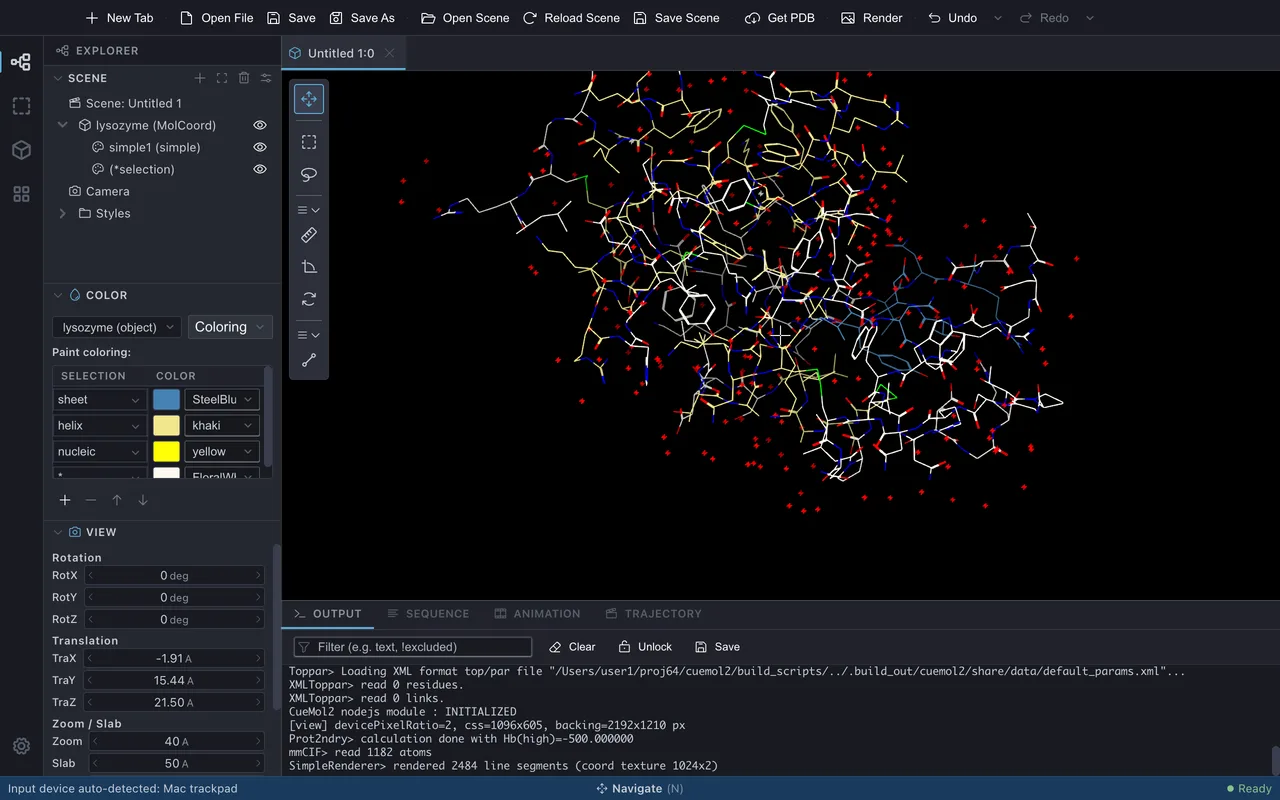
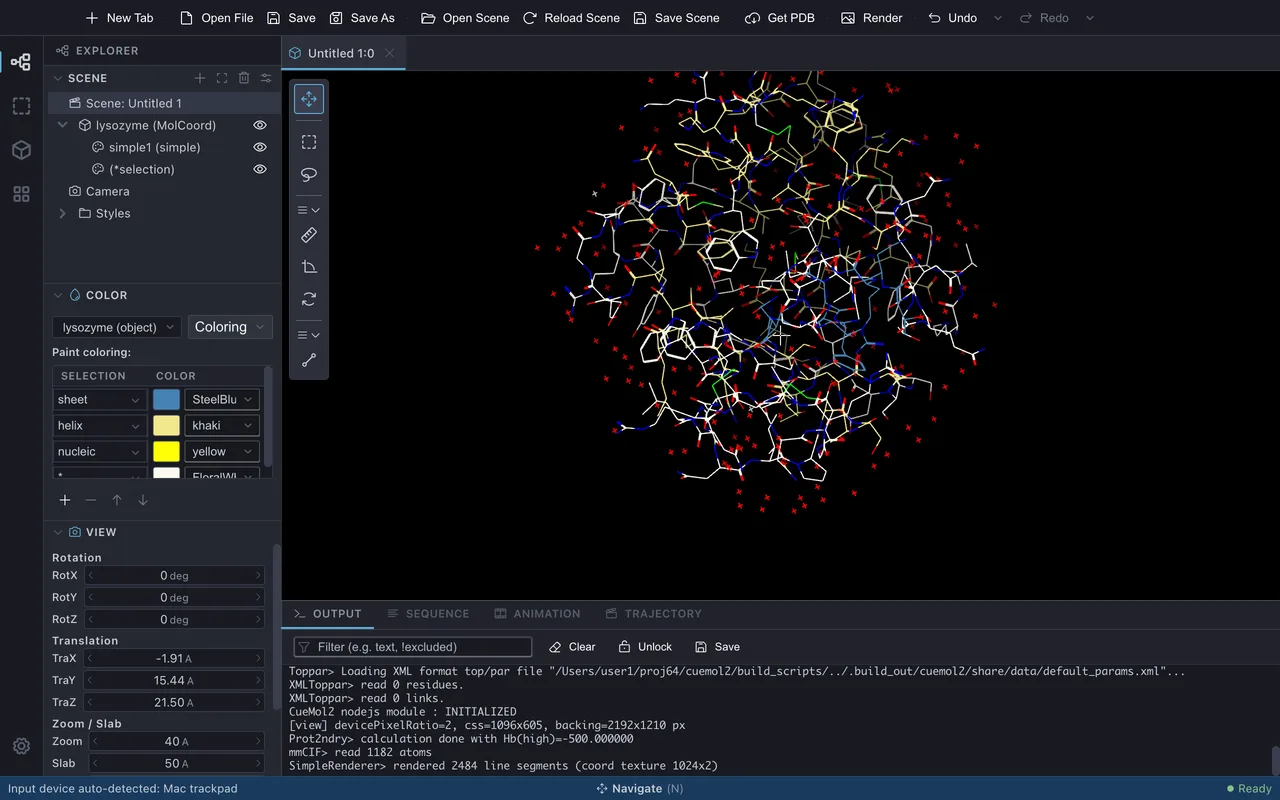
Explain the GUI parts the tutorial walks past
Measured against the CueMol2 GUI tutorial, which explains a dialog field
at a time, this page named only the controls it told the reader to touch.
Fill in the parts that are on screen but were never described:

- Open File Options: the file name and detected format row, Renderer name
  (where simple1 comes from, which later sections rely on), the Presets
  group at the head of the Renderer type list, and the format-specific
  options fold with its (defaults)/(modified) hint. Also the download
  progress dialog with Cancel, and the Get PDB failed error.
- View pane: how a row is operated (arrows, drag, click to type) and that
  Rotation is a relative dial that returns to 0 while Translation and
  Zoom/Slab hold absolute values.
- Clicking an atom also reports occupancy, B factor and coordinates in the
  status bar and the Output panel; the first line of the view's
  right-click menu is the atom's identity and does nothing.
- Scene tree: the "name (type)" convention read against the actual rows,
  the disclosure triangle, why unnamed renderers show only (*selection),
  the Camera and Styles nodes, all four panel buttons, and the background
  colour on the scene row.

Section 4 reuses the CueMol2 concept diagram unchanged, since the model it
draws has not changed.

The spec asserts the new claims: the file/format row, the default renderer
name, the Presets optgroup, the fold's label and hint, that entering 90 in
[…]

Changed region(s): [[0.3438, 0.0938, 0.8125, 0.6562]]

diff --git a/docs-verify/specs/basic/loading.spec.ts b/docs-verify/specs/basic/loading.spec.ts
@@ -17,7 +17,7 @@ import { CueMolHarness } from '../../fixtures/app';
 import { setupLoadingPage, LYSOZYME, SECOND_OBJ } from '../../fixtures/course';
 import { assertDialogQueuesEmpty } from '../../helpers/dialogs';
 import { expectRow, sceneRow } from '../../helpers/sceneTree';
-import { setViewValue, viewPaneRowParts } from '../../helpers/viewPane';
+import { enterViewValue, setViewValue, viewPaneRowParts } from '../../helpers/viewPane';
 import { rotateView, zoomView } from '../../helpers/molView';
 import { docShot } from '../../helpers/docShot';
 
@@ -52,7 +52,19 @@ test.describe.serial('構造の読み込みと表示', { tag: '@net' }, () => {
         const mark = harness.logs.mark();
         await setupLoadingPage.loadLysozyme(harness, {
             onGetPdbDialog: (dlg) => docShot(harness.window, `${SHOT}/1-getpdb`, { clip: dlg }),
-            onOptionsDialog: (dlg) => docShot(harness.window, `${SHOT}/1-open-options`, { clip: dlg }),
+            onOptionsDialog: async (dlg) => {
+                // 「ファイル名 (1qio.cif) と、判別したファイル形式 (mmCIF) が表示されます」
+                await expect(dlg.locator('.fod-file-name')).toHaveText('1qio.cif');
+                await expect(dlg.locator('.fod-file-format')).toHaveText('mmCIF');
+                // 「Renderer name は選んだ種類から自動で決まります (simple1)」
+                await expect(dlg.locator('#rend-name')).toHaveValue('simple1');
+                // 「Renderer type のリストの先頭には Presets というグループがあります」
+                await expect(dlg.locator('#rend-type optgroup[label="Presets"]')).toHaveCount(1);
+                // 「<形式>-specific options ... 既定のままなら (defaults) と表示されます」
+                await expect(dlg.locator('.fod-collapsible-label')).toHaveText('mmCIF-specific options');
+                await expect(dlg.locator('.fod-collapsible-hint')).toHaveText('(defaults)');
+                await docShot(harness.window, `${SHOT}/1-open-options`, { clip: dlg });
+            },
         });
 
         // 「分子が線画 (stick モデル) で表示されます。」
@@ -73,7 +85,11 @@ test.describe.serial('構造の読み込みと表示', { tag: '@net' }, () => {
         await zoomView(harness.window);
         await expect(harness.window.locator('canvas').first()).toBeVisible();
 
+        // 「Rotation は相対値で、操作するとその角度だけ回り、値は 0 に戻ります」
+        expect(await enterViewValue(harness.window, 'RotY', 90)).toMatch(/^0\s*deg/);
+
         // 「3. Explorer > View パネルで Zoom の値をクリックし、40 と入力して Enter」
+        // (Zoom は絶対値なので入力した値がそのまま残る)
         await setViewValue(harness.window, 'Zoom', 40);
         await docShot(harness.window, `${SHOT}/2-view-zoom`, {
             clip: viewPaneRowParts(harness.window, 'Zoom'),
@@ -110,9 +126,13 @@ test.describe.serial('構造の読み込みと表示', { tag: '@net' }, () => {
         for (const name of [LYSOZYME, 'simple1', SECOND_OBJ, 'trace1']) {
             await expect(sceneRow(harness.window, name)).toBeVisible();
         }
-        // 「分子を読み込むと、選択部分をハイライト表示するための *selection という
-        //   Renderer も自動で作られます」
+        // 「名前のない Renderer は括弧と型だけが表示されます」
         await expect(harness.window.getByText('(*selection)').first()).toBeVisible();
+        // 「いちばん下の Camera と Styles は…」
+        await expect(harness.window.getByText('Camera', { exact: true })).toBeVisible();
+        await expect(harness.window.getByText('Styles', { exact: true })).toBeVisible();
+        // 「パネル上部には 4 つのボタンがあります」(Add / Focus / Delete / Property)
+        await expect(harness.window.locator('.section-action-btn')).toHaveCount(4);
 
         // Header (it carries the Delete button the section mentions) down to
         // the last renderer row; Camera / Styles are not part of this section.

diff --git a/docs-verify/helpers/viewPane.ts b/docs-verify/helpers/viewPane.ts
@@ -17,14 +17,24 @@ function viewRow(window: Page, label: string): Locator {
         .filter({ has: window.locator('.h3-form-grid-label', { hasText: new RegExp(`^${label}$`) }) });
 }
 
-/** Set an absolute View-pane value (Zoom / Slab / Dist / TraX...) and verify it. */
-export async function setViewValue(window: Page, label: string, value: number): Promise<void> {
+/**
+ * Type a value into a View-pane row and commit it. Returns what the row
+ * displays afterwards, which is the entered value for the absolute rows and
+ * 0 for the relative Rotation dials.
+ */
+export async function enterViewValue(window: Page, label: string, value: number): Promise<string> {
     const row = viewRow(window, label);
     await row.locator('.h3-form-drag').click();
     const input = row.locator('input.h3-form-drag-input');
     await input.fill(String(value));
     await input.press('Enter');
-    await expect(row.locator('.h3-form-drag-value')).toContainText(String(value));
+    return (await row.locator('.h3-form-drag-value').innerText()).trim();
+}
+
+/** Set an absolute View-pane value (Zoom / Slab / Dist / TraX...) and verify it. */
+export async function setViewValue(window: Page, label: string, value: number): Promise<void> {
+    await enterViewValue(window, label, value);
+    await expect(viewRow(window, label).locator('.h3-form-drag-value')).toContainText(String(value));
 }
 
 /** The value as displayed, e.g. "30A" (number plus unit, no separator). */

diff --git a/docs/ja/tutorials/basic/loading.md b/docs/ja/tutorials/basic/loading.md
@@ -14,12 +14,18 @@
 
 ![Get PDB ダイアログ](../../../assets/images/tutorials/basic/loading/1-getpdb.webp){ width="380" .on-glb }
 
-取得が終わると、**Open File Options** の画面が出ます。
+ダウンロード中は `Downloading 1QIO…` という進捗画面が出ます。**Cancel** を押せば中断できます。
+存在しない ID を入れた場合は **Get PDB failed** というエラーが表示されます。
+
+取得が終わると、**Open File Options** の画面が出ます。いちばん上にはこれから読み込む
+ファイル名 (`1qio.cif`) と、CueMol3 が判別したファイル形式 (`mmCIF`) が表示されます。
 
 1. **Object name** を `lysozyme` に変更します。読み込まれたデータは **Object** と呼ばれ、
    CueMol の中ではこの名前で識別されます (既定ではファイル名由来の名前が入っています)
 2. **Renderer type** から **simple** を選びます
-3. そのほかは既定のまま **Open** を押します
+3. **Renderer name** は選んだ種類から自動で決まります (`simple1`)。ここでは既定のままにします。
+   この名前はシーンツリーやチュートリアルの以降の説明でそのまま使います
+4. そのほかは既定のまま **Open** を押します
 
 ![Open File Options (Object name = lysozyme, Renderer type = simple)](../../../assets/images/tutorials/basic/loading/1-open-options.webp){ width="480" .on-glb }
 
@@ -54,12 +60,24 @@ nucl
 
 全種類の一覧と詳細は [Renderer 一覧](../../reference/renderers/index.md) を参照してください。
 
+**Renderer type** のリストの先頭には、**Presets** というグループがあります。ここから
+**Default preset 1** などを選ぶと、Renderer を 1 つではなく、タンパク質は ribbon、核酸は
+nucl、それ以外は ballstick、というように**複数の Renderer をまとめたグループ**が一度に
+作られます。プリセットを選んだときは、下の **Selection** は使えなくなります。
+
 ### そのほかのオプション
 
+- **Renderer name** — 作られる Renderer の名前。種類を選ぶと自動で埋まります
+  (プリセットの場合はグループ名になります)
+- **Selection** — チェックを入れると隣の欄が有効になり、**表示する範囲**を選択式で
+  絞れます。読み込み自体は分子全体に対して行われるので、後から表示範囲だけを
+  広げ直せます (→ [分子の一部を選択する](selection.md))
 - **Center view on molecule after loading** — 読み込んだ分子へ視点を移します。
   現在の視点を保ちたいときはチェックを外します
-- **Selection** — 表示する範囲をあらかじめ選択式で絞れます。読み込み自体は
-  分子全体に対して行われます
+- **&lt;形式&gt;-specific options** — いちばん下の折りたたみです。開くと、その形式に固有の
+  読み込み設定 (mmCIF / PDB なら **Load MODEL records**、**Load anisotropic U (ANISOU)**、
+  **Load alternate conformations**、**Calculate secondary structure** など) が並びます。
+  既定のままなら見出しの右に `(defaults)`、変更すると `(modified)` と表示されます
 
 ## 2. 視点を操作する
 
@@ -75,16 +93,31 @@ nucl
 Zoom は分子ビューに映す範囲の高さ (Å) です。値を小さくすると、その分だけ分子が
 大きく表示されます。マウスで動かすより正確に視点を合わせたいときに使います。
 
+View パネルの各行は、次の 3 通りで操作できます。
+
+- **左右の矢印**を押すと 1 段ずつ増減します
+- 数値の上を**左右にドラッグ**すると連続して変化します
+- 数値を**クリック**すると直接入力できる状態になり、++enter++ で確定します
+
+**Rotation** (RotX / RotY / RotZ) は**相対値**で、操作するとその角度だけ回り、値は 0 に
+戻ります。**Translation** (TraX / TraY / TraZ、Å) と **Zoom / Slab** (Zoom・Slab・Dist、Å) は
+**絶対値**で、現在の視点の値がそのまま表示されます。
+
 ![Zoom を 40 Å にしたところ](../../../assets/images/tutorials/basic/loading/2-zoomed.webp){ .on-glb }
 
 平行移動やスラブ (手前と奥を切り抜いて表示する範囲) の操作を含めた一覧は
 [マウス・トラックパッド操作](../../ui/mouse-input.md)、View パネルの各項目は
 [サイドパネル](../../ui/side-panels.md) を参照してください。
 
-原子の上でクリックすると、その原子の名前がラベルとして表示されます
-(もう一度クリックすると消えます)。右クリックすると、分子名・チェイン・残基・原子の
-情報がメニューの先頭に表示され、**Center at this atom** でその原子を
-ビュー中央に移せます。
+原子の上でクリックすると、その原子の名前がラベルとして分子ビューに表示されます
+(もう一度クリックすると消えます)。同時に、**ウィンドウ最下部のステータスバー**と
+**Output パネル**に、Object 名・チェイン・残基・原子名に加えて、占有率 (O)・温度因子 (B)・
+座標が出ます。
+
+右クリックするとメニューが開きます。**先頭の行はいま指している原子の情報**で、選んでも
+何も起きません。その下の **Center at this atom** を選ぶと、その原子がビューの中央に来る
+ように視点が移ります。さらに下には選択のための項目が並びます
+(→ [分子の一部を選択する](selection.md))。
 
 ## 3. もう 1 つ分子を読み込む
 
@@ -139,19 +172,42 @@ View
 :   シーンを映す画面 (分子ビュー) のこと。1 つのシーンに複数の View を
     接続することもできます (→ [File メニュー](../../menu/file.md) の New Tab)
 
+![Scene / Object / Renderer / View の関係](../../../assets/images/tutorials/basic/loading/scene-concept.png){ .on-glb }
+
+シーンとは、複数の Object と、それらに接続された Renderer を含む全体だと捉えてください。
+
 ## 5. シーンツリーで全体を把握する
 
 左サイドパネルの **Explorer &gt; Scene** ツリー (シーンツリー) には、シーン内の
 Object とその配下の Renderer が階層で表示されます (→ [サイドパネル](../../ui/side-panels.md))。
 
-- いまは `lysozyme` と `1g59` の 2 つの Object があり、それぞれに simple / trace の
-  Renderer が付いています (Get PDB で読み込むと、Object 名は PDB ID の小文字になります)
-- 分子を読み込むと、選択部分をハイライト表示するための `*selection` という
-  Renderer も自動で作られます
+行の表記は **`名前 (型)`** です。名前の左の**三角**をクリックすると、その Object に
+接続された Renderer の一覧を開いたり閉じたりできます。いまのツリーは次のように読みます。
+
+- シーン `Untitled 1` に `lysozyme` と `1g59` の 2 つの Object がある
+  (Get PDB で読み込むと、Object 名は PDB ID の小文字になります)
+- `1g59 (MolCoord)` — Object `1g59` の型は MolCoord (分子座標) である
+- `trace1 (trace)` — `1g59` に接続された Renderer `trace1` の型は trace である
+- `(*selection)` — 名前のない Renderer は括弧と型だけが表示されます。これは選択部分を
+  ハイライト表示するための Renderer で、分子を読み込むと自動で作られます
+
+いちばん下の **Camera** と **Styles** は、それぞれ保存した視点とスタイルの置き場所です
+(→ [カメラとシーンの保存](camera-scene.md))。
+
+### 目のアイコンとパネル上部のボタン
+
 - 行の**目のアイコン**で Renderer の表示・非表示を切り替えられます。Object 行で
   切り替えると、配下の Renderer がまとめて切り替わります
-- 不要になった Object や Renderer は、行を選んでパネル上部の **Delete** ボタンで
-  削除できます (Undo で戻せます)
+- パネル上部には 4 つのボタンがあります (ポインタを載せると名前が出ます)
+
+| ボタン | 動作 |
+|---|---|
+| **Add** | 選んでいる Object に Renderer を追加します (右クリックの New Renderer と同じ) |
+| **Focus** | 選んでいる Object や Renderer に合わせて視点 (Zoom と Slab) を調整します |
+| **Delete** | 選んでいる Object や Renderer を削除します。Undo で戻せます |
+| **Property** | 選んでいる項目をプロパティインスペクタに表示します |
+
+シーン行を右クリックすると **Background color** から背景色を変えられます。
 
 ![シーンツリー (lysozyme / 1g59 と各 Renderer)](../../../assets/images/tutorials/basic/loading/5-scene-tree.webp){ width="237" .on-glb }
 
